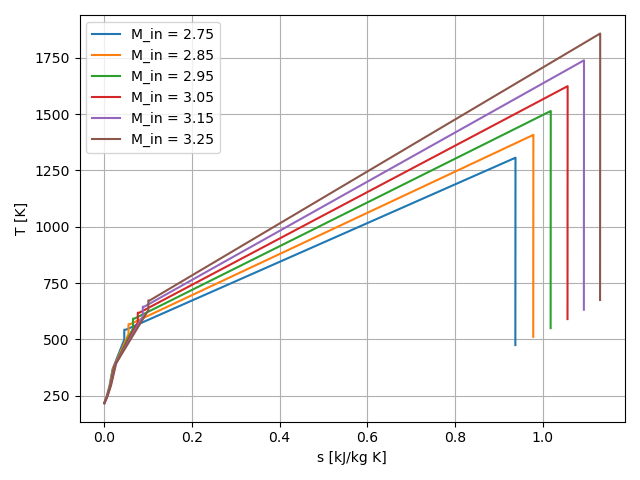
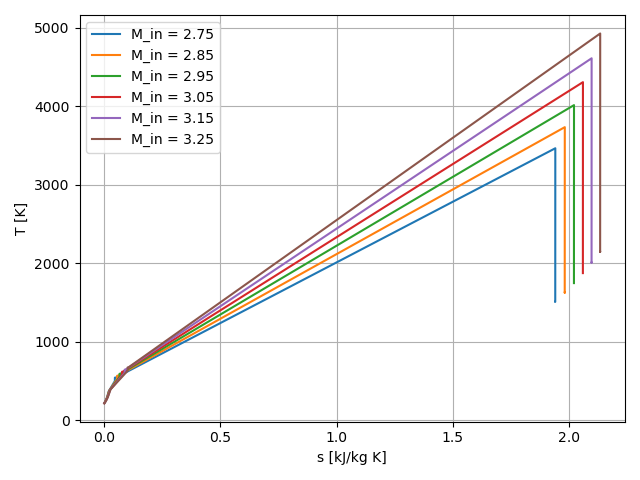
stuff

diff --git a/Final/helper.py b/Final/helper.py
@@ -14,64 +14,92 @@ from Tools.isentropic import *
 from inlet import inlet as Inlet
 from diffuser import evaluate_diffuser
 from flameholder import flameholder
-from combustor import evaluate_combustor
-from converging_section import analyze_converging_section
-from nozzle import analyze_nozzle
 
-# Atmosphere:
-P_atm = 9112.32  # Pa
-T_atm = 216.65  # K
-M_atms = np.linspace(2.75, 3.25, 5)
-gamma = gamma_air
+# # Atmosphere:
+# P_atm = 9112.32  # Pa
+# T_atm = 216.65  # K
+# M_atms = np.linspace(2.75, 3.25, 5)
+# gamma = gamma_air
 
-# Basic properties:
-width = 1  # m
+# # Basic properties:
+# width = 1  # m
 
-def evaluate_up_to_converger(M_lowest, inlet_design_params_dict, diffuser_df, combustor_dict):
+def evaluate_up_to_combustor(M_lowest, inlet_design_params_dict, diffuser_df):
+    # Atmosphere:
+    P_atm = 9112.32  # Pa
+    T_atm = 216.65  # K
+    M_atms = [M_lowest]
+    gamma = gamma_air
+    width = 1
+
+    # with open("Final/profiles/inlet_design_params_dict.pkl", "rb") as f:
+    #     inlet_design_params_dict = pickle.load(f)
+    # diffuser_df = pd.read_pickle("Final/profiles/diffuser_df.pkl")
+    # with open("Final/profiles/combustor_dict.pkl", "rb") as f:
+    #     combustor_dict = pickle.load(f)
+    # converge_df = pd.read_pickle("Final/profiles/converge_df.pkl")
+    # nozzle_df = pd.read_pickle("Final/profiles/nozzle_df.pkl")
+
+    # Inlet Parameters
+    width = inlet_design_params_dict["width"] # m
     inlet = Inlet(**inlet_design_params_dict)
     inlet_xs = inlet.xs
     inlet_ys = inlet.ys
-    r = {
-        "xs": [],
-        "Ms": [],
-        "Ps": [],
-        "Ts": [],
-    }
-    M_in = M_lowest
-    # Inlet
-    P_inlet, T_inlet, _, M_inlet = inlet.get_1d_profiles(inlet_xs, P_atm, T_atm, M_in)
-    P0_inlet = P_inlet * P0_P(M_inlet, gamma)
-    T0_inlet = T_inlet * T0_T(M_inlet, gamma)
-    r["xs"].extend(inlet_xs)
-    r["Ms"].extend(M_inlet)
-    r["Ps"].extend(P_inlet)
-    r["Ts"].extend(T_inlet)
-    M_normal, P_normal, T_normal, _, _, _ = inlet.output_properties(P_atm, T_atm, M_in)
-    r["xs"].append(r["xs"][-1])
-    r["Ms"].append(M_normal)
-    r["Ps"].append(P_normal)
-    r["Ts"].append(T_normal)
-    # Diffuser
-    diffuser_results = evaluate_diffuser(diffuser_df['x'], diffuser_df['y'], r["Ms"][-1], r["Ps"][-1], r["Ts"][-1], width)
-    r["xs"].extend(diffuser_results['x'] + r["xs"][-1])
-    r["Ms"].extend(diffuser_results['Mach'])
-    r["Ps"].extend(diffuser_results['Pressure'])
-    r["Ts"].extend(diffuser_results['Temperature'])
-    # Flameholder
-    P_out, _ = flameholder(r["Ps"][-1], r["Ms"][-1], gamma)
-    r["xs"].append(r["xs"][-1])
-    r["Ms"].append(r["Ms"][-1])
-    r["Ps"].append(P_out)
-    r["Ts"].append(r["Ts"][-1])
-    # Combustor
-    u_in =  r["Ms"][-1]* get_speed_of_sound(r["Ts"][-1])
-    rho_in = r["Ps"][-1] / (R_air * r["Ts"][-1])
-    area_in = diffuser_df['y'].iloc[-1] * width
-    m_dot_air = area_in * rho_in * u_in
-    combustor_results = evaluate_combustor(combustor_dict["length_m"], r["Ms"][-1], r["Ps"][-1], r["Ts"][-1], m_dot_air, width, combustor_dict["m_dot_fuel"])
-    r["xs"].append(combustor_results["length_m"] + r["xs"][-1])
-    r["Ms"].append(combustor_results["M_out"])
-    r["Ps"].append(combustor_results["P_out"])
-    r["Ts"].append(combustor_results["T_out"])
+
+    results = []
+    for M_in in M_atms:
+        results.append({
+            "M_in": M_in,
+            "xs": [],
+            "Ms": [],
+            "Ps": [],
+            "Ts": [],
+            "P0s": [],
+            "T0s": [],
+            "Ss": [],
+            "Thrust": None,
+            "fuel_info": {}
+        })
+
+    for r in results:
+        M_in = r["M_in"]
+        print(f"Running {M_in}")
+
+        # Inlet
+        P_inlet, T_inlet, _, M_inlet, P0_inlet, T0_inlet, s_inlet = inlet.get_1d_profiles(inlet_xs, P_atm, T_atm, M_in)
+        r["xs"].extend(inlet_xs)
+        r["Ms"].extend(M_inlet)
+        r["Ps"].extend(P_inlet)
+        r["Ts"].extend(T_inlet)
+        r["P0s"].extend(P0_inlet)
+        r["T0s"].extend(T0_inlet)
+        r["Ss"].extend(s_inlet)
+        # r["P0s"].extend(P_inlet * P0_P(M_inlet, gamma))
+        # r["T0s"].extend(T_inlet * T0_T(M_inlet, gamma))
+        M_normal, P_normal, T_normal, _, _, _ = inlet.output_properties(P_atm, T_atm, M_in)
+        r["xs"].append(r["xs"][-1])
+        r["Ms"].append(M_normal)
+        r["Ps"].append(P_normal)
+        r["Ts"].append(T_normal)
+        r["P0s"].append(P_normal * P0_P(M_normal, gamma))
+        r["T0s"].append(T_normal * T0_T(M_normal, gamma))
+
+        # Diffuser
+        diffuser_results = evaluate_diffuser(diffuser_df['x'], diffuser_df['y'], r["Ms"][-1], r["Ps"][-1], r["Ts"][-1], width)
+        r["xs"].extend(diffuser_results['x'] + r["xs"][-1])
+        r["Ms"].extend(diffuser_results['Mach'])
+        r["Ps"].extend(diffuser_results['Pressure'])
+        r["Ts"].extend(diffuser_results['Temperature'])
+        r["P0s"].extend(diffuser_results['Stag Pressure'])
+        r["T0s"].extend(diffuser_results['Stag Temperature'])
+
+        # Flameholder
+        P_out, _ = flameholder(r["Ps"][-1], r["Ms"][-1], gamma)
+        r["xs"].append(r["xs"][-1])
+        r["Ms"].append(r["Ms"][-1])
+        r["Ps"].append(P_out)
+        r["Ts"].append(r["Ts"][-1])
+        r["P0s"].append(P_out * P0_P(r["Ms"][-1], gamma))
+        r["T0s"].append(r["T0s"][-1])
     
-    return r["Ms"][-1], r["Ps"][-1], r["Ts"][-1]
+    return results[0]["Ms"][-1], results[0]["Ps"][-1], results[0]["Ts"][-1]

diff --git a/Final/evaluate.py b/Final/evaluate.py
@@ -170,6 +170,18 @@ for r in results:
 avg_thrust = sum(r["Thrust"] for r in results) / len(results)
 print(f"Average Thrust: {avg_thrust} N")
 
+
+T_target = 672.9771706586896  # value you want to find
+Ts = results[-1]["Ts"]
+
+indices = [i for i, T in enumerate(Ts) if abs(T - T_target) <= 1e-6]
+print(indices)
+
+print (results[0]["Ms"][indices[0]])
+print (results[0]["Ts"][indices[0]])
+print (results[0]["Ps"][indices[0]])
+
+
 # -------------------------------------------------------------
 # PLOT ALL OUR RESULTS
 # -------------------------------------------------------------
@@ -247,6 +259,19 @@ plt.tight_layout()
 plt.savefig('Final/results/thrust_vs_mach.png')
 
 plt.figure()
+M_in_vals = [r["M_in"] for r in results]
+burn_time_vals = [r["fuel_info"]["burn_time_s"] for r in results]
+flow_time_vals = [r["fuel_info"]["flow_time_s"] for r in results]
+plt.plot(M_in_vals, burn_time_vals, label = "Burn time")
+plt.plot(M_in_vals, flow_time_vals, label = "Flow time")
+plt.xlabel("Mach number")
+plt.ylabel("Time [s]")
+plt.grid(True)
+plt.legend()
+plt.tight_layout()
+plt.savefig('Final/results/burn_or_flow_vs_mach.png')
+
+plt.figure()
 for r in results[::stride]:
     T_vals = np.array(r["Ts"])
     P_vals = np.array(r["Ps"])
@@ -281,6 +306,8 @@ plt.legend()
 plt.grid(True)
 plt.tight_layout()
 plt.savefig('Final/results/entropy_profiles.png')
-plt.show()
 
-
+print(f"Minimum Thrust: {min(r['Thrust'] for r in results)} N")
+print(f"Maximum Thrust: {max(r['Thrust'] for r in results)} N")
+mean_thrust = sum(r["Thrust"] for r in results) / len(results)
+print(f"Mean Thrust: {mean_thrust} N")

diff --git a/Final/final2.py b/Final/final2.py
@@ -17,12 +17,13 @@ from nozzle import design_nozzle
 from thrust_calc import calculate_thrust
 from plot_top import plot_top
 from plot_bottom import plot_bottom
+from helper import evaluate_up_to_combustor
 
 
 # Atmosphere:
 P_atm = 9112.32  # Pa
 T_atm = 216.65  # K
-M_max = 2.75 #3.25
+M_max = 3.25
 M_atm = M_max
 M_lowest = 2.75
 
@@ -51,7 +52,7 @@ diffuser_length = 0.1  # length of diffuser, m
 Resolution = 100
 
 # combustor:
-m_dot_fuel = 0.1  # kg/s
+m_dot_fuel = 0.25  # kg/s
 
 # Converging section:
 converging_length = 0.1  # m
@@ -70,7 +71,13 @@ diffuser_df.to_pickle('Final/profiles/diffuser_df.pkl')
 P3, M3 = flameholder(P2, M2)
 T3 = T2
 
-combustor_dict = solve_combustor_length(M3, P3, T3, m_dot, width, m_dot_fuel)
+M3_lowest, P3_lowest, T3_lowest = evaluate_up_to_combustor(M_lowest, inlet_design_params_dict, diffuser_df)
+
+# M3_lowest= 0.10734810470681938
+# T3_lowest= 543.0814725758444
+# P3_lowest= 193995.7312814175
+
+combustor_dict = solve_combustor_length(M3_lowest, P3_lowest, T3_lowest, m_dot, width, m_dot_fuel)
 if combustor_dict["is_choked"]:
     print(f"Choked at {M_atm=}, {m_dot_fuel=}")
 P4 = combustor_dict["P_out"]

diff --git a/Final/plot_bottom.py b/Final/plot_bottom.py
@@ -80,6 +80,11 @@ def plot_bottom(inlet, diffuser_df, combustor_dict, x5s, h5s, x6s, h6s):
         length_of_front = np.sqrt((inlet_points[0][0] - corner_point[0])**2 + (inlet_points[0][1] - corner_point[1])**2)
         angle_of_front = np.rad2deg(np.arctan((inlet_points[0][1] - corner_point[1])/(inlet_points[0][0] - corner_point[0])))
         bottom_face.append(corner_point)
+    else:
+        corner_point = (diffuser_points[-1][0], top_face[-1][1])
+        length_of_front = np.sqrt((inlet_points[0][0] - corner_point[0])**2 + (inlet_points[0][1] - corner_point[1])**2)
+        angle_of_front = np.rad2deg(np.arctan((inlet_points[0][1] - corner_point[1])/(inlet_points[0][0] - corner_point[0])))
+        bottom_face.append(corner_point)
 
     bottom_face.append(top_face[-1])
 
